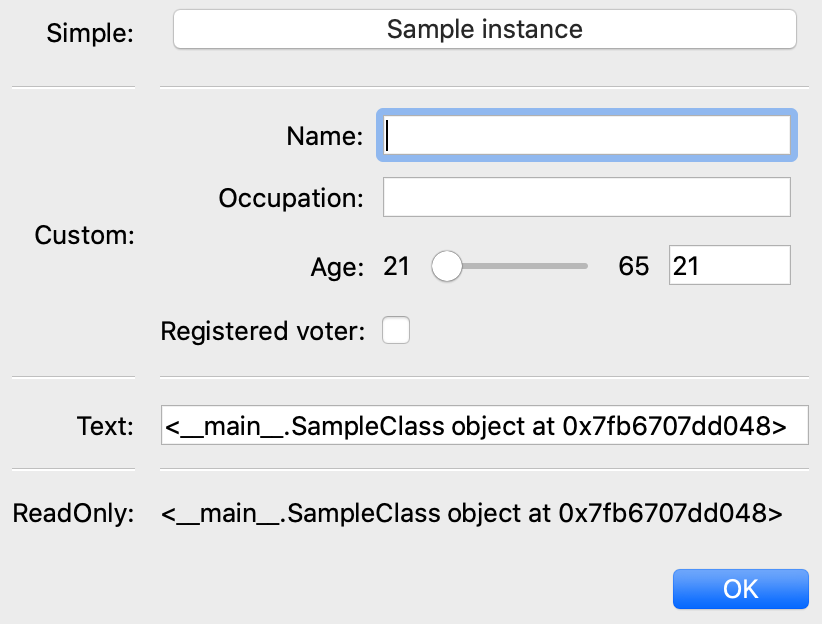
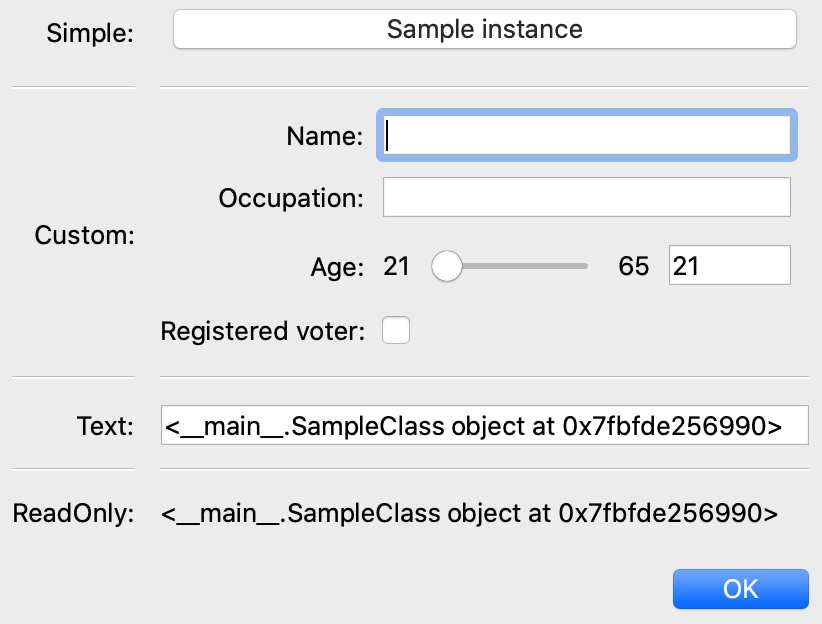
use QWidget grab instead of QPixmap.grabWidget and use pyqt5 for images instead of pyside2

Changed region(s): [[0.7603, 0.7917, 0.9428, 0.8526], [0.7603, 0.6699, 0.9732, 0.7003]]

diff --git a/traitsui/regenerate_example_screenshots.py b/traitsui/regenerate_example_screenshots.py
@@ -83,7 +83,7 @@ def replaced_configure_traits(
         **args,
     )
     with UITester().create_ui(instance, ui_kwargs) as ui:
-        ui_pixmap = QtGui.QPixmap.grabWidget(ui.control)
+        ui_pixmap = ui.control.grab()
         ui_pixmap.save(
             os.path.join(
                 "docs",

diff --git a/docs/source/traitsui_user_manual/factories_basic.rst b/docs/source/traitsui_user_manual/factories_basic.rst
@@ -238,12 +238,10 @@ CodeEditor()
     *auto_set*
 
 The purpose of a code editor is to display and edit Code traits, though it can
-be used with the Str and String trait types as well. In the simple and custom
-styles (which are identical for this editor), the text is displayed in numbered,
-non-wrapping lines with a horizontal scrollbar. The text style displays the
-trait value using a single scrolling line with special characters to represent
-line breaks. The read-only style is similar to the simple and custom styles
-except that the text is not editable.
+be used with the Str and String trait types as well. In the simple, text, and
+custom styles (which are identical for this editor), the text is displayed in
+numbered, non-wrapping lines with a horizontal scrollbar. The read-only style
+is similar to the other styles except that the text is not editable.
 
 .. figure:: images/CodeEditor_demo.png
    :alt: simple, custom, and read-only: multi-line, numbered, text field; text: single line text field
@@ -277,13 +275,13 @@ Figure 26.
 
    Figure 26: Color editor styles
 
-In the simple style, the editor appears as a text box whose background is a
-sample of the currently selected color. The text in the box is either a color
-name or a tuple of the form (*r*, *g*, *b*) where *r*, *g*, and *b* are the
-numeric values of the red, green and blue color components respectively. (Which
-representation is used depends on how the value was entered.) The text value is
-not directly editable in this style of editor; instead, clicking on the text box
-displays a pop-up panel similar in appearance and function to the custom style.
+In the simple style, the editor appears as a text box. The text in the box is
+either a color name or a tuple of the form (*r*, *g*, *b*) where *r*, *g*, and
+*b* are the numeric values of the red, green and blue color components
+respectively. (Which representation is used depends on how the value was
+entered.) The text value is not directly editable in this style of editor;
+instead, clicking on the text box displays a pop-up panel similar in appearance
+and function to the custom style.
 
 The custom style includes a labeled color swatch on the left, representing the
 current value of the Color trait, and a palette of common color choices on the
@@ -590,7 +588,8 @@ FileEditor()
     *entries*, *filter*, *filter_name*, *reload_name*, *truncate_ext*, *dclick_name*, *dialog_style*
 
 A file editor enables the user to display a File trait or set it to some file in
-the local system hierarchy. The styles of this editor are shown in Figure 31.
+the local system hierarchy. The styles of this editor are shown in the
+following Figure.
 
 .. figure:: images/FileEditor_demo.png
    :alt: simple: text box with 'Browse' or '...' button; custom: file tree; text: text box; read-only: read-only
@@ -615,11 +614,11 @@ The custom style displays a file system browser panel, in which the user can
 expand or collapse directory structures, and click an icon to select a file.
 
 You can specify a list of filters to apply to the file names displayed, using
-the *filter* keyword parameter of the factory function. In Figure 31, the
-"Custom with Filter" editor uses a *filter* value of ``['*.py']`` to display only
-Python source files. You can also specify this parameter for the simple style,
-and it will be used in the file selection dialog box or pop-up file system
-browser panel. Alternatively, you can specify *filter_name*, whose value is an
+the *filter* keyword parameter of the factory function. For example, you could
+use a *filter* value of ``['*.py']`` to display only Python source files.
+You can also specify this parameter for the simple style, and it will be used
+in the file selection dialog box or pop-up file system browser panel.
+Alternatively, you can specify *filter_name*, whose value is an
 extended trait name of a trait attribute that contains the list of filters.
 
 The *reload_name* parameter is an extended trait name of a trait attribute that
